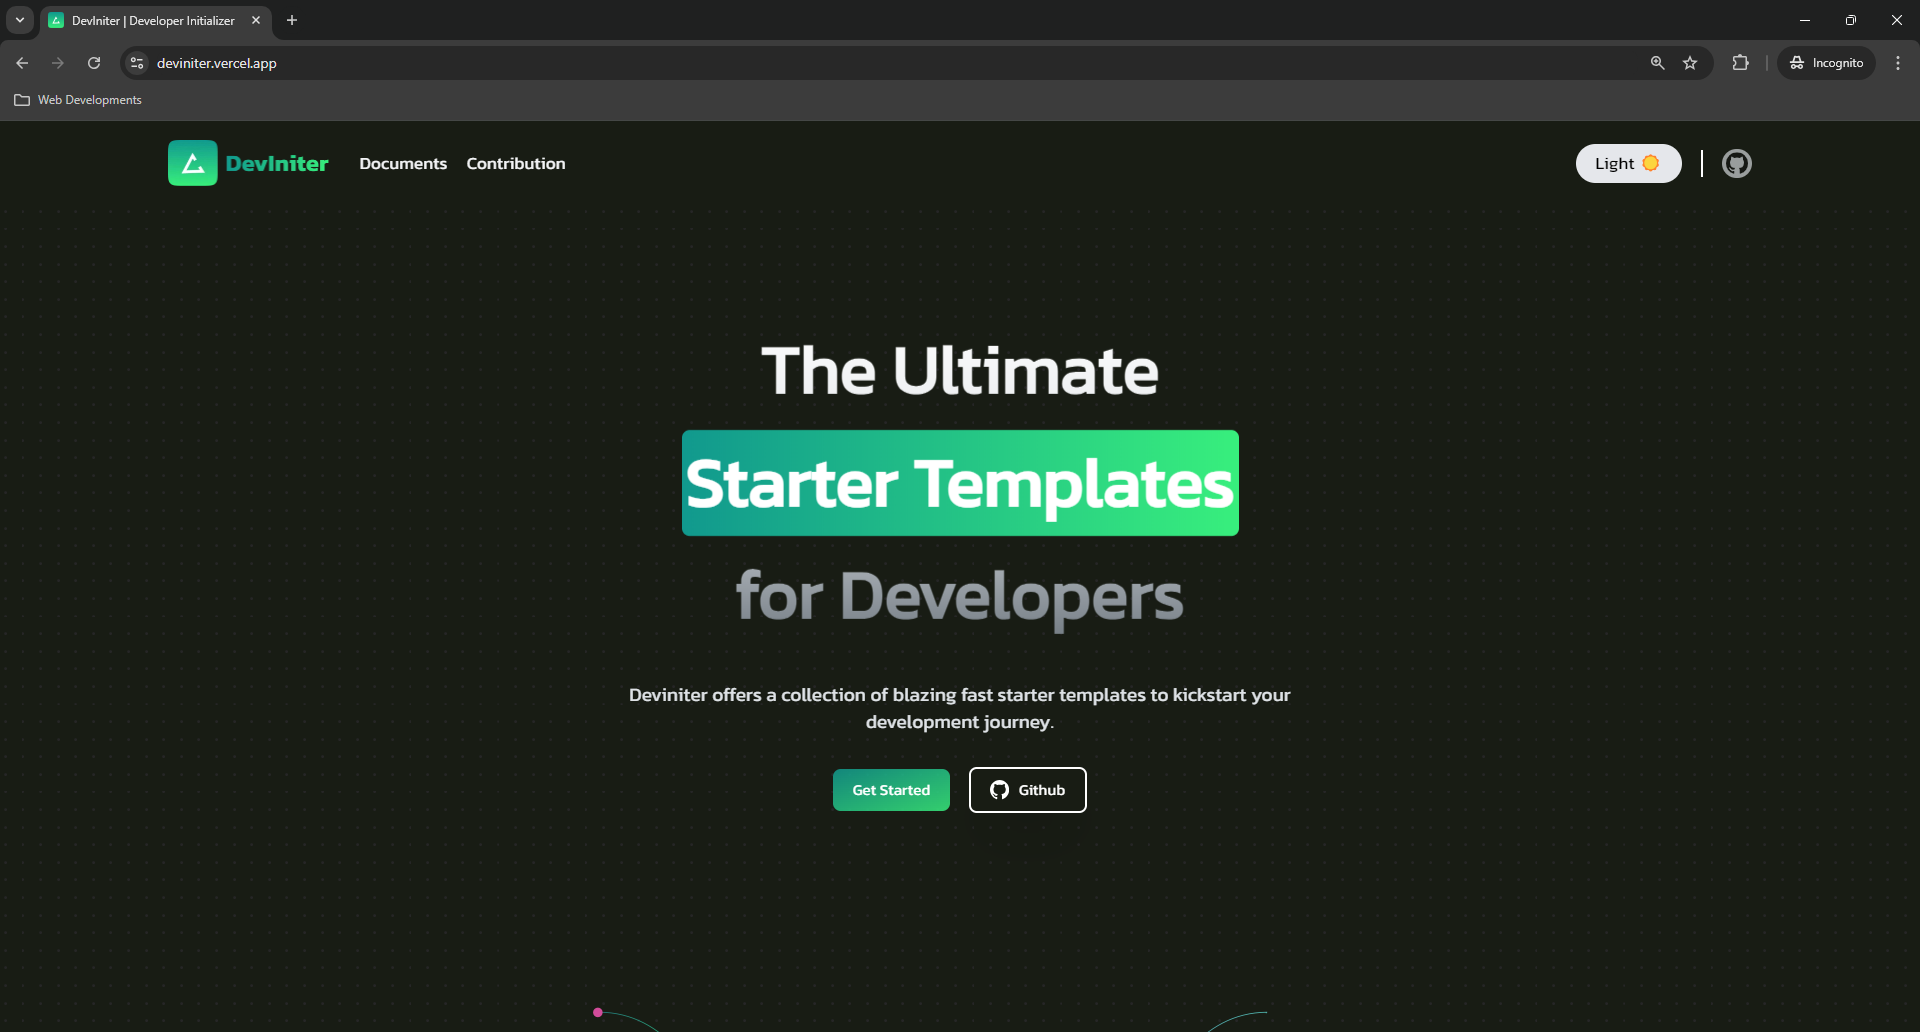
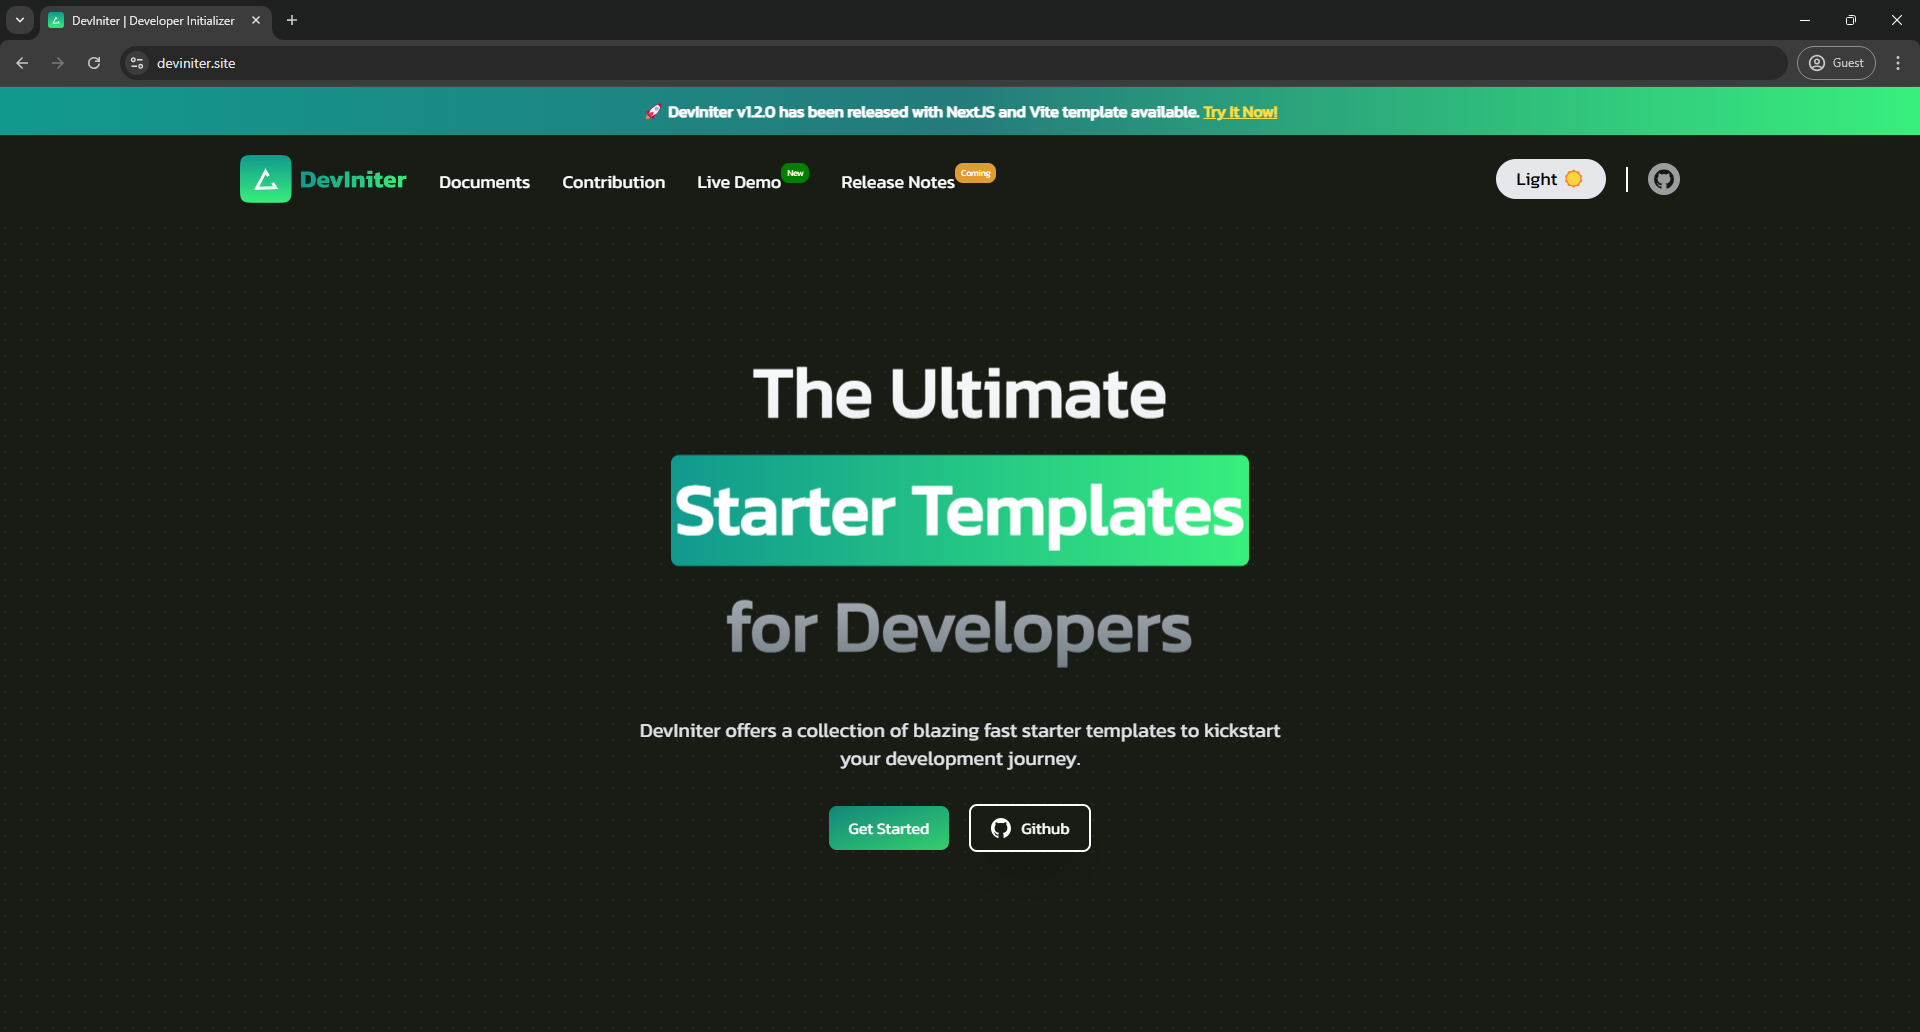
#IMP-012: update README (#50)
* Doc: update readme

* Style: remove image's size

* Feat: add template's logos

* Fixbug

* Fix: wrong image's name

* Doc: add version badge

* Update version badge

* Update version badge

* Fixbug: wrong repo

* Fixbug

* Doc: missing back to top at Usage section

* Doc: add link to LICENSE page

* Doc: make DevIniter bold

* Assets: upload new DevIniter homepage screenshot

* Chore: update prod URL

* Feat: allow to click at image

Changed region(s): [[0.3125, 0.3411, 0.6875, 0.8372], [0.0, 0.031, 1.0, 0.2171]]

diff --git a/README.md b/README.md
@@ -1,23 +1,4 @@
-<!-- Improved compatibility of back to top link: See: https://github.com/othneildrew/Best-README-Template/pull/73 -->
-
 <a id="readme-top"></a>
-
-<!--
-*** Thanks for checking out the Best-README-Template. If you have a suggestion
-*** that would make this better, please fork the repo and create a pull request
-*** or simply open an issue with the tag "enhancement".
-*** Don't forget to give the project a star!
-*** Thanks again! Now go create something AMAZING! :D
--->
-
-<!-- PROJECT SHIELDS -->
-<!--
-*** I'm using markdown "reference style" links for readability.
-*** Reference links are enclosed in brackets [ ] instead of parentheses ( ).
-*** See the bottom of this document for the declaration of the reference variables
-*** for contributors-url, forks-url, etc. This is an optional, concise syntax you may use.
-*** https://www.markdownguide.org/basic-syntax/#reference-style-links
--->
 
 <!-- PROJECT LOGO -->
 <br />
@@ -26,12 +7,16 @@
     <img src="public/images/logos/FullLogo.png" alt="Logo" width="278.7" height="80">
   </a>
 
-<h3 align="center">DevIniter</h3>
+<div align="center"> <a href="https://github.com/Pet3r1512/DevIniter_CLI/releases">
+    <img src="https://img.shields.io/github/v/release/Pet3r1512/DevIniter_CLI?style=flat" alt="GitHub Release">
+  </a> </div>
+
+<h3 align="center"><strong>DevIniter</strong></h3>
 
   <p align="center">
     Initialize Developer's Projects with Pre-built Templates
     <br />
-    <a href="https://deviniter.vercel.app/docs/introduction"><strong>Explore the docs »</strong></a>
+    <a href="https://deviniter.site/docs/introduction"><strong>Explore the docs »</strong></a>
     <br />
     <br />
     <a href="https://github.com/Pet3r1512/DevIniter/issues/new?labels=bug&template=bug-report---.md">Report Bug</a>
@@ -45,11 +30,12 @@
   <summary>Table of Contents</summary>
   <ol>
     <li>
-      <a href="#about-the-project">About The Project</a>
+      <a href="#about-the-project">About DevIniter</a>
       <ul>
         <li><a href="#built-with">Built With</a></li>
       </ul>
     </li>
+    <li><a href="#templates">Templates</a></li>
     <li>
       <a href="#getting-started">Getting Started</a>
       <ul>
@@ -58,17 +44,14 @@
       </ul>
     </li>
     <li><a href="#usage">Usage</a></li>
-    <li><a href="#contributing">Contributing</a></li>
     <li><a href="#license">License</a></li>
     <li><a href="#contact">Contact</a></li>
   </ol>
 </details>
 
-<!-- ABOUT THE PROJECT -->
+## About DevIniter
 
-## About The Project
-
-[![Product Name Screen Shot][product-screenshot]](https://deviniter.vercel.app/)
+[![Product Name Screen Shot][product-screenshot]](https://deviniter.site/)
 
 <p align="right">(<a href="#readme-top">back to top</a>)</p>
 
@@ -82,11 +65,35 @@
 
 <!-- GETTING STARTED -->
 
+## Templates
+
+Until now, DevIniter provides 2 templates: Next.js - Page Router and Vite - React.js
+
+### <img src="public/images/templates/nextjs-deviniter.png" alt="ViteLogo" height="24" width="24" > Next.js - Page Router
+
+<a href="https://deviniter-nextjs-typescript-template.vercel.app/" target="_blank"><img src="public/images/templates/nextjs-dark.png" alt="Nextjs" ></a>
+
+### <img src="public/images/templates/vite-deviniter.png" alt="ViteLogo" height="24" width="24" > Vite - React.js
+
+<a href="https://deviniter-vite-react-typescript-template.vercel.app/" target="_blank"><img src="public/images/templates/vite-dark.png" alt="Vite" ></a>
+
+<p align="right">(<a href="#readme-top">back to top</a>)</p>
+
 ## Getting Started
 
-Deviniter provides a range of lightning-fast starter templates to help jumpstart your development journey.
+<strong>DevIniter</strong> provides a range of lightning-fast starter templates to help jumpstart your development journey.
 
-## Usage
+### Prerequisites
+
+Ensure you have the following tools installed on your system:
+
+- Nodejs (v20.0.0 or higher)
+- pnpm (v9.0.0 or higher)
+- npm (v10.0.0 or higher)
+
+<strong>Note</strong>: We are actively working to expand support for additional Node.js versions and package managers such as Yarn.
+
+### Installation
 
 Installing your favorite template by running:
 
@@ -95,6 +102,19 @@ Installing your favorite template by running:
 ```
 
 _For more examples, please refer to the [Documentation](https://www.deviniter.site/docs/introduction)_
+
+<p align="right">(<a href="#readme-top">back to top</a>)</p>
+
+## Usage
+
+<strong>DevIniter</strong>'s templates are designed to streamline your development workflow. Each template comes pre-configured with modern development tools and best practices, allowing you to focus on building your application rather than setting up boilerplate code.
+
+Our templates support various project types including:
+
+- Full-stack web applications
+- Static websites
+- API services
+- Personal Portfolios
 
 <p align="right">(<a href="#readme-top">back to top</a>)</p>
 
@@ -115,17 +135,11 @@ Don't forget to give the project a star! Thanks again!
 
 <p align="right">(<a href="#readme-top">back to top</a>)</p>
 
-<!-- ### Top contributors:
-
-<a href="https://github.com/Pet3r1512/DevIniter/graphs/contributors">
-  <img src="https://contrib.rocks/image?repo=github_username/repo_name" alt="contrib.rocks image" />
-</a> -->
-
 <!-- LICENSE -->
 
 ## License
 
-Distributed under the MIT License. See `LICENSE.txt` for more information.
+Distributed under the MIT License. See [LICENSE](https://github.com/Pet3r1512/DevIniter/blob/master/LICENSE) for more information.
 
 <p align="right">(<a href="#readme-top">back to top</a>)</p>
 
